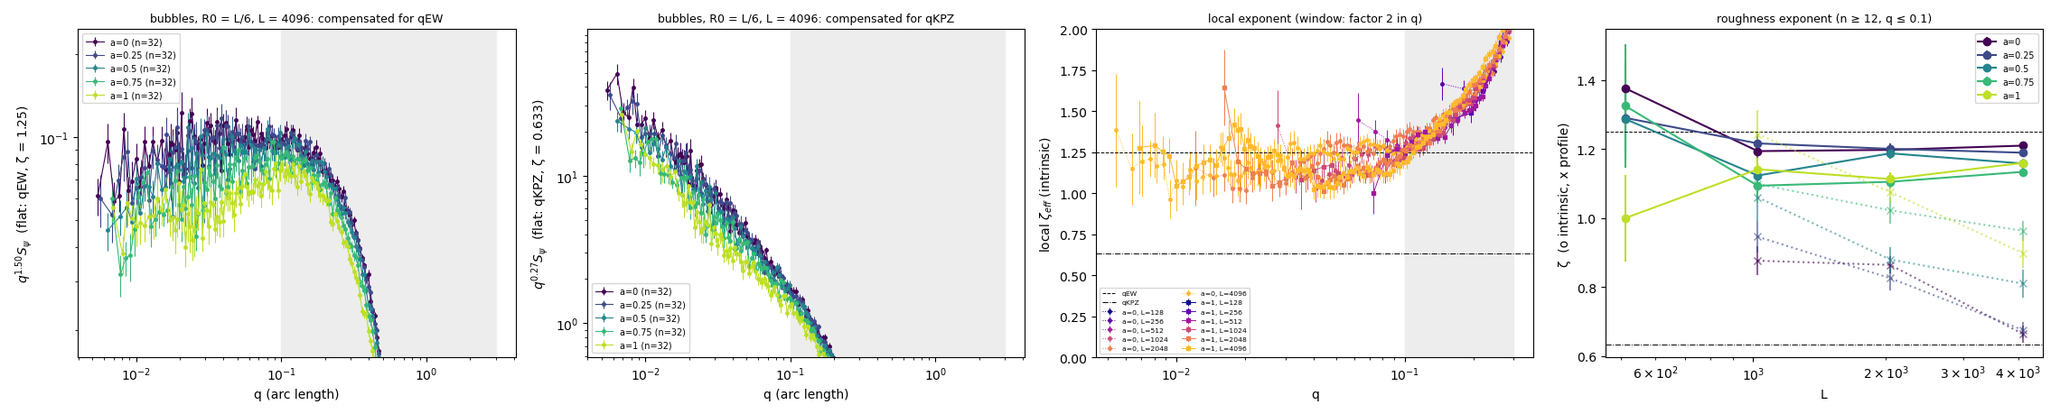
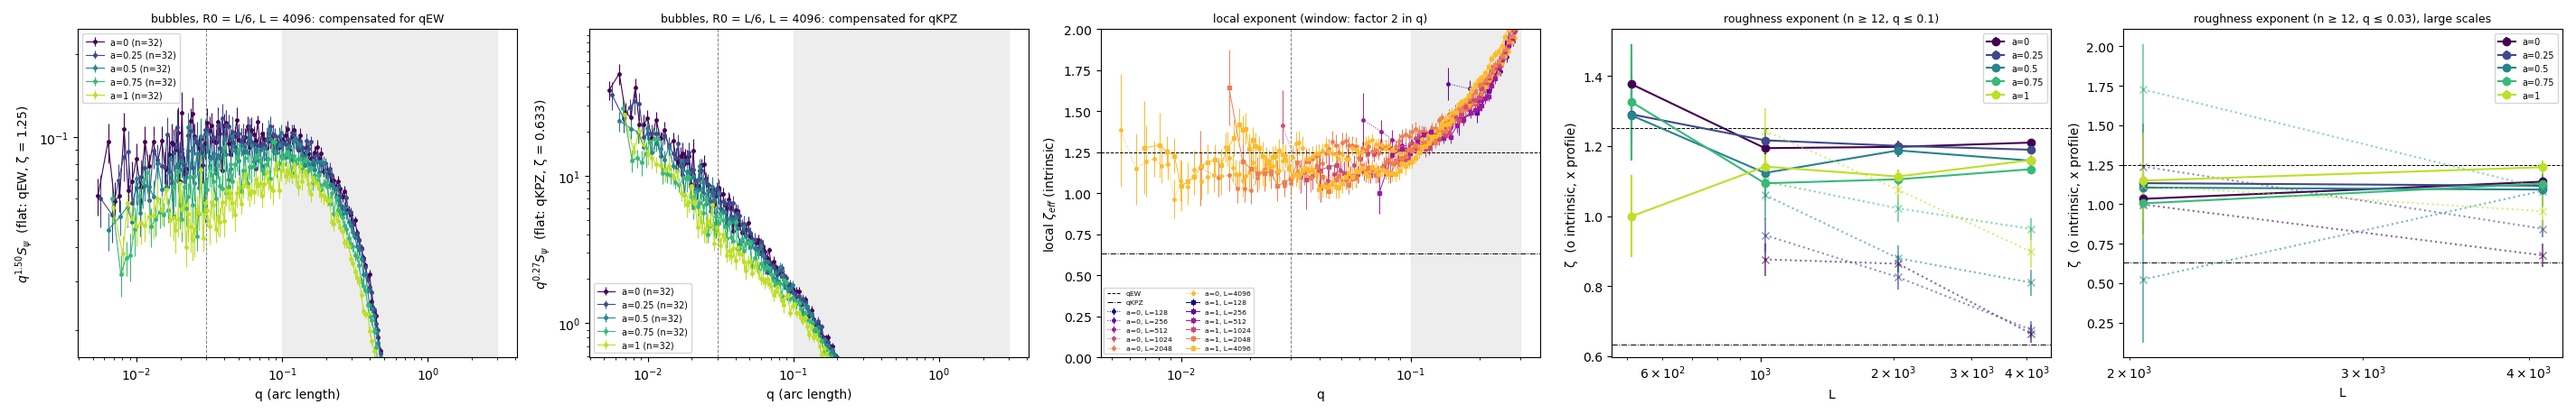
analyze_bubbles: large-scale zeta fit (q <= qlarge = 0.03), as for flat walls

diff --git a/bubble_sim/analyze_bubbles.py b/bubble_sim/analyze_bubbles.py
@@ -2,7 +2,7 @@
 """Critical bubbles (fss_scan.py, bubble geometry): the whole analysis in one place.
 
     python analyze_bubbles.py --extract runs/fss_D0.04          # where the scan ran -> contours.npz
-    python analyze_bubbles.py runs/fss_D0.04 [runs/fss_D0.04_R32 ...] [--out D] [--qmax 0.1]
+    python analyze_bubbles.py runs/fss_D0.04 [runs/fss_D0.04_R32 ...] [--out D] [--qmax 0.1] [--qlarge 0.03]
 
 One row per run in every figure, written to --out (default runs/<common name>_analysis) with report.txt.
 The same observables as analyze_flat.py, measured on the closed phi = 0 contour of the bubble:
@@ -23,7 +23,7 @@ import os
 
 from analysis import data, figures, measure
 
-CFG = dict(bubble=dict(n_min=12, lmin=256), qmax=0.1)
+CFG = dict(bubble=dict(n_min=12, lmin=256), qmax=0.1, qlarge=0.03)
 
 
 def main():
@@ -32,6 +32,7 @@ def main():
     ap.add_argument("--extract", metavar="DIR", help="extract the contours of DIR/configs -> DIR/contours.npz")
     ap.add_argument("--out")
     ap.add_argument("--qmax", type=float, default=CFG["qmax"], help="upper end of the zeta fits")
+    ap.add_argument("--qlarge", type=float, default=CFG["qlarge"], help="upper end of the large-scale zeta fits")
     ap.add_argument("--nmin", type=int, default=CFG["bubble"]["n_min"], help="lowest mode in the zeta fits")
     ap.add_argument("--lmin", type=int, default=CFG["bubble"]["lmin"], help="smallest L in the threshold fits")
     ap.add_argument("--workers", type=int, default=os.cpu_count())
@@ -40,7 +41,7 @@ def main():
         data.extract_bubbles(args.extract, args.workers)
     if not args.dirs:
         return
-    CFG["qmax"] = args.qmax
+    CFG["qmax"], CFG["qlarge"] = args.qmax, args.qlarge
     CFG["bubble"].update(n_min=args.nmin, lmin=args.lmin)
     out = args.out or data.default_out(args.dirs)
     os.makedirs(out, exist_ok=True)
